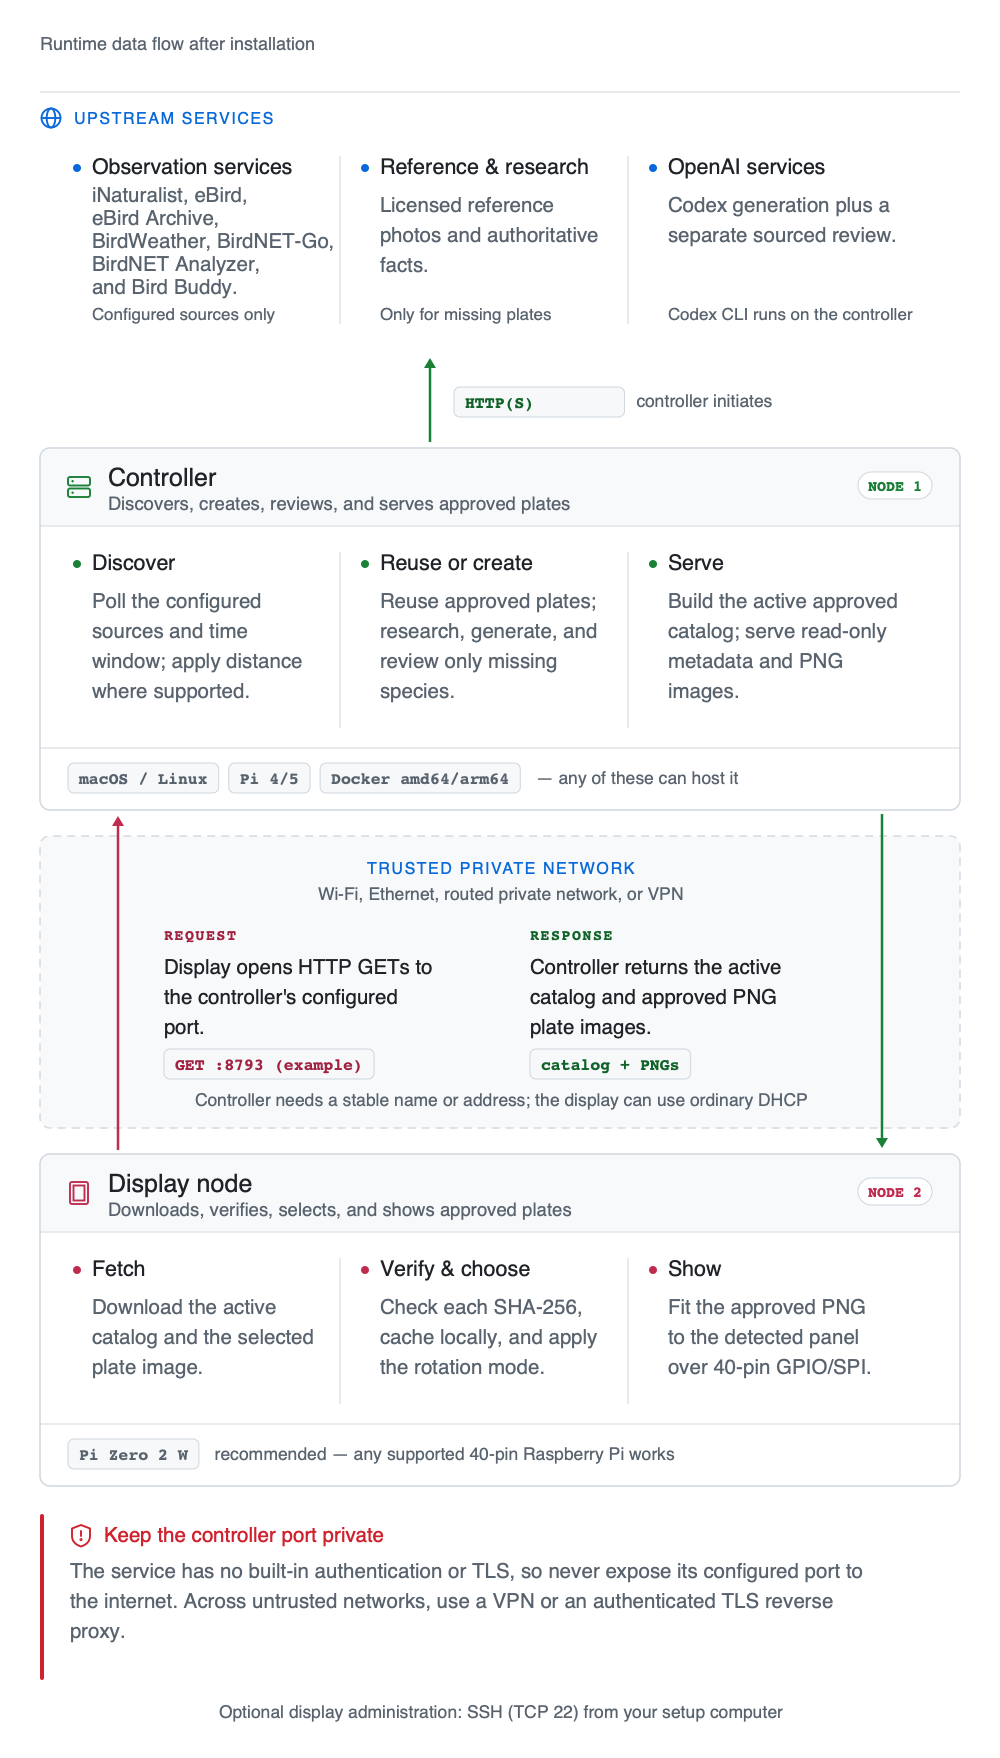
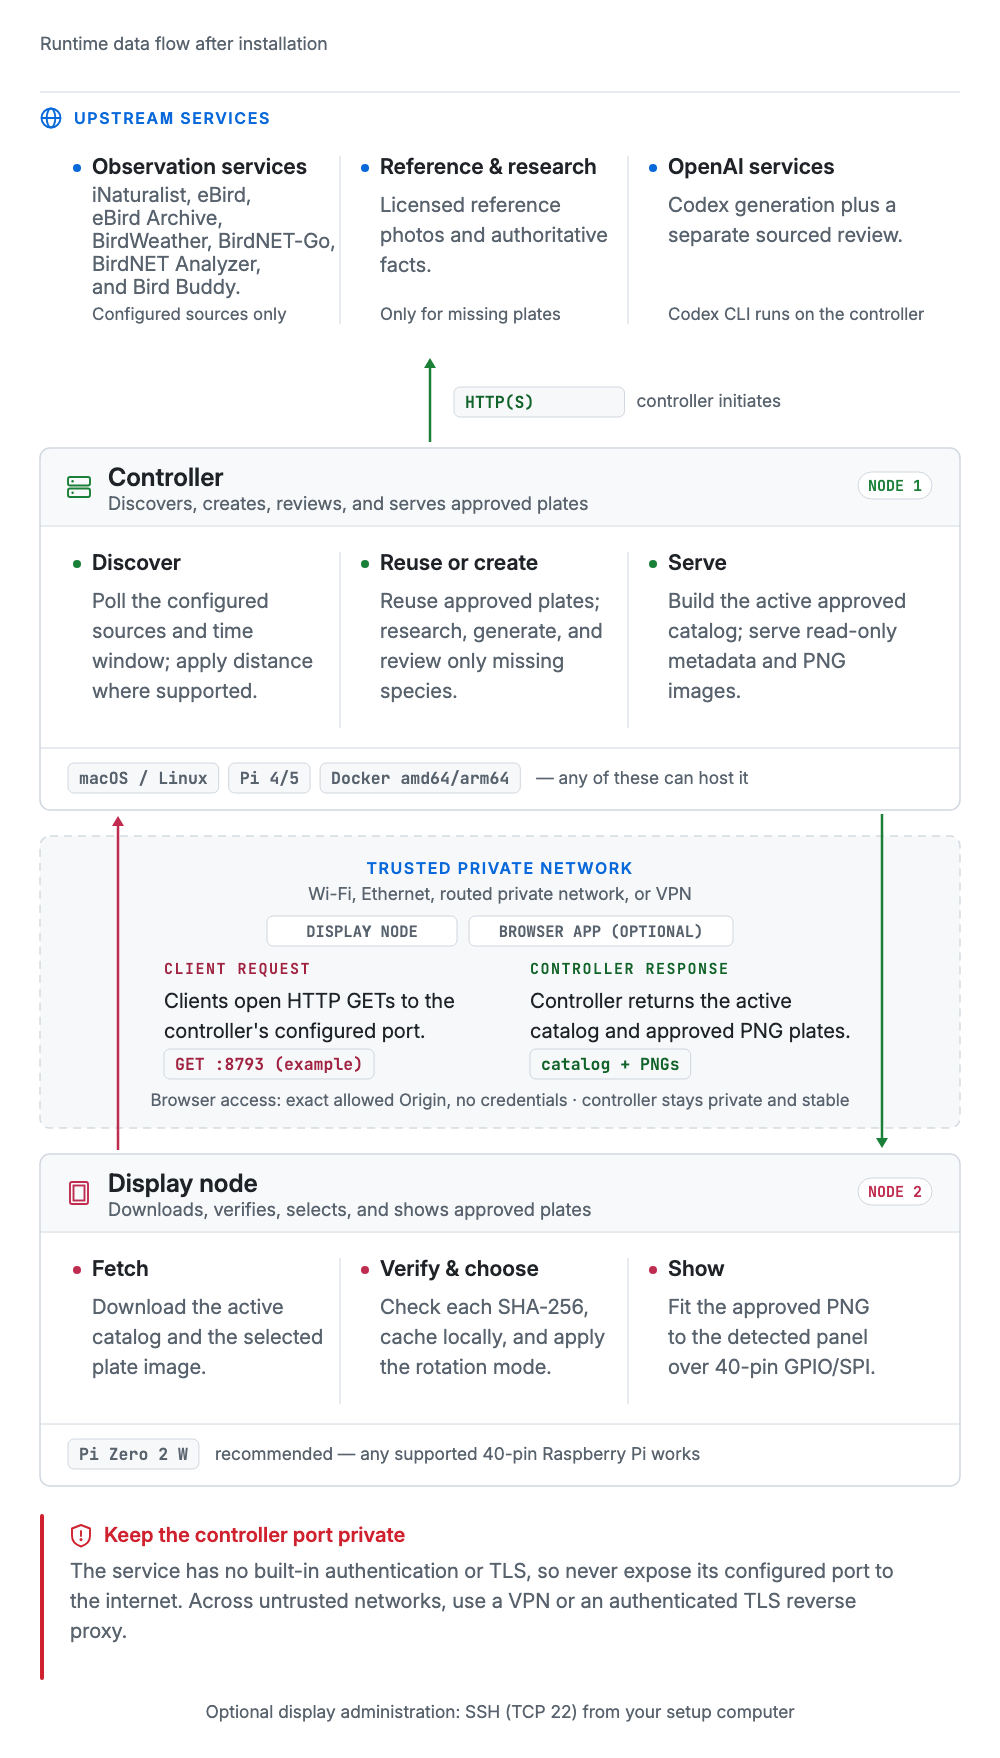
Document trusted browser clients

diff --git a/docs/installation.md b/docs/installation.md
@@ -7,12 +7,13 @@ bird observations.
 
 <picture>
   <source media="(prefers-color-scheme: dark)" srcset="images/installation-architecture-dark.png">
-  <img src="images/installation-architecture.png" alt="Inky Bird Frame runtime architecture showing iNaturalist, eBird, eBird Archive, BirdWeather, BirdNET-Go, BirdNET Analyzer, and Bird Buddy observation services; the controller; its private HTTP connection with the Raspberry Pi display node; and the Inky Impression panel">
+  <img src="images/installation-architecture.png" alt="Inky Bird Frame runtime architecture showing observation and generation services; the controller; the Raspberry Pi display node and an optional trusted browser application reading the approved catalog over a private network; and the Inky Impression panel">
 </picture>
 
-The display initiates every application connection. The controller's configured
-port (8793 in the supplied example configuration) must remain on a trusted
-network and must not be forwarded from the public internet.
+The display node and any optional browser application initiate every application
+connection to the controller. The controller's configured port (8793 in the
+supplied example configuration) must remain on a trusted network and must not be
+forwarded from the public internet.
 
 ## Choose the two computers
 
@@ -68,6 +69,7 @@ CLI. The display requires `git`, `rsync`, and Pimoroni's Python environment.
 | Controller | Internet HTTPS (TCP 443) | Codex, internet-backed observation services and geocoder, licensed references, and configured research sources |
 | Controller | BirdNET-Go HTTP(S) endpoint | Read-only summaries from an explicitly configured self-hosted station |
 | Display node | Configured controller TCP port (8793 in the supplied example) | Read-only health, catalog, and image downloads |
+| Trusted browser application | Configured controller TCP port (8793 in the supplied example) | Optional read-only catalog and image downloads from an allowed exact origin |
 | Setup computer | Display node SSH (TCP 22) | Installation, updates, and troubleshooting |
 
 The two computers do not have to share a subnet. They must be routable to each

diff --git a/README.md b/README.md
@@ -36,7 +36,7 @@ are cached and reused.
 <p align="center">
   <picture>
     <source media="(prefers-color-scheme: dark)" srcset="docs/images/installation-architecture-dark.png">
-    <img src="docs/images/installation-architecture.png" alt="Inky Bird Frame runtime architecture showing iNaturalist, eBird, eBird Archive, BirdWeather, BirdNET-Go, BirdNET Analyzer, and Bird Buddy observation services; the controller; its private HTTP connection with the Raspberry Pi display node; and the Inky Impression panel" width="760">
+    <img src="docs/images/installation-architecture.png" alt="Inky Bird Frame runtime architecture showing observation and generation services; the controller; the Raspberry Pi display node and an optional trusted browser application reading the approved catalog over a private network; and the Inky Impression panel" width="760">
   </picture>
 </p>
 
@@ -48,6 +48,19 @@ The project has two jobs:
   catalog and images.
 - The **display node** downloads approved assets, verifies their checksums, and
   rotates them on the Inky panel. It never runs discovery or Codex.
+
+Browser access is optional and disabled by default. To let a trusted web
+application read the active catalog and images, add its exact origin:
+
+```toml
+[controller]
+cors_allowed_origins = ["https://frame.example.test"]
+```
+
+This does not add authentication or make the controller safe to expose to the
+internet. See
+[Browser applications](docs/installation.md#browser-applications) for the
+configuration and network limits.
 
 The roles may run on one capable Raspberry Pi, but the recommended wall build
 keeps the lightweight display node behind the frame and runs the controller on

diff --git a/docs/architecture.md b/docs/architecture.md
@@ -2,7 +2,8 @@
 
 Inky Bird Frame has three roles. The controller discovers birds and creates
 plates. The display node pulls approved images. An optional publisher sends new
-plates to a shared GitHub catalog.
+plates to a shared GitHub catalog. A trusted browser application can also read
+the active catalog after the operator allows its exact origin.
 
 ```mermaid
 flowchart LR
@@ -12,6 +13,8 @@ flowchart LR
     A --> C
     D["Display node"] -- "GET catalog and images" --> C
     C -- "Approved plates" --> D
+    B["Trusted browser app (optional)"] -- "GET catalog and images (allowed Origin)" --> C
+    C -- "Approved catalog" --> B
     A -. "optional catalog-only PR" .-> P["Public catalog"]
 ```
 
